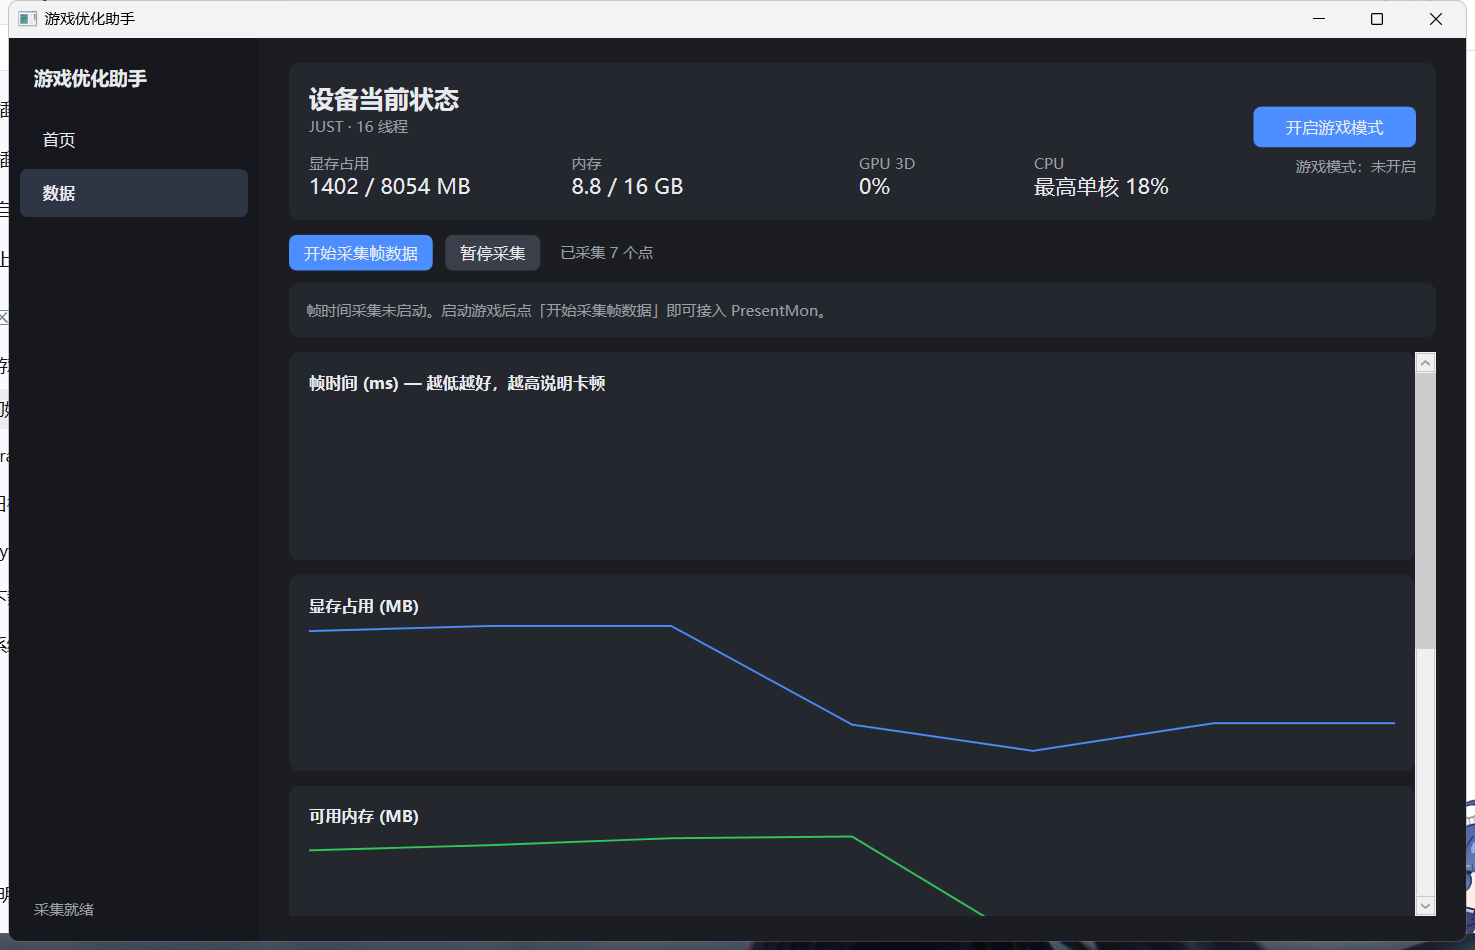
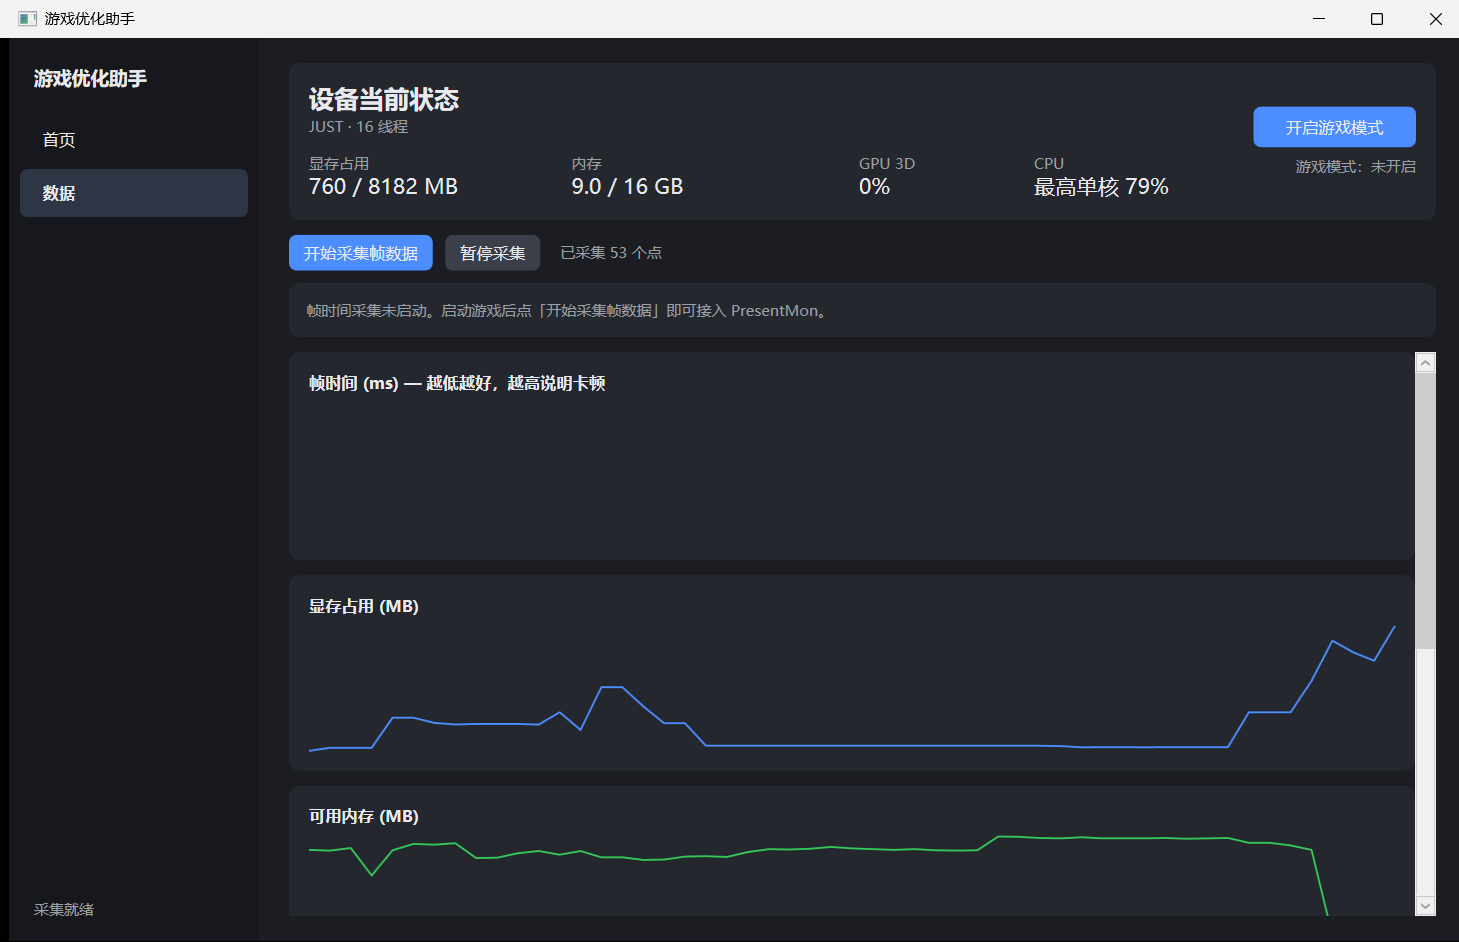
docs: v0.5.1 版本收尾 - 版本号、文档同步、工作区整理
- 版本号升到 0.5.1（Directory.Build.props 与 VersionConsistencyTests 同步）
- 变更记录：把两个「未发布」节合并为 v0.5.1 正式条目，修正批量替换
  误改的历史内容（v0.5.0 一节恢复原样）
- 功能清单：数据页四条曲线标为 ⚠（缺刻度，看不出绝对水位），
  新增「诊断结论展示 ❌」；游戏模式段落重写
- 已知限制：新增第九节「数据页曲线缺量程与结论」，
  重写第十节那个删不掉的空目录（补实测报错与处置建议）
- 开发指南：补目录速查、运行时数据位置、约定 0「破坏性操作默认关闭」
- 更新首页与数据页配图
- 清理：删除临时验证工程与 27 张调试截图，dotnet clean 清掉 bin/obj

diff --git a/tests/GameOptimizer.Tests/VersionConsistencyTests.cs b/tests/GameOptimizer.Tests/VersionConsistencyTests.cs
@@ -42,11 +42,12 @@ public class VersionConsistencyTests
     }
 
     [Fact]
-    public void 当前版本应为0_5_0()
+    public void 当前版本应为0_5_1()
     {
         // 版本号由用户手动设定；升级时改这里和 Directory.Build.props
         AssemblyVersion.Major.Should().Be(0);
         AssemblyVersion.Minor.Should().Be(5);
+        AssemblyVersion.Build.Should().Be(1);
     }
 
     [Fact]

diff --git a/docs/06-变更记录.md b/docs/06-变更记录.md
@@ -4,60 +4,20 @@
 
 ---
 
-## 未发布 — 游戏模式调强：结束后台
+## v0.5.1 — 显存判定修正 + 游戏模式调强（2026-10-19）
 
-### 用户能看到什么
+本次修复两个实际问题：首页显存判定不看游戏需求、游戏模式结束后台形同虚设。
 
-- 首页多了一块「开启游戏模式时结束后台」，列出**当前正在运行**的可结束应用
-- 每项显示**中文应用名 + 进程名**（「壁纸引擎 Wallpaper Engine / wallpaper64」）
-- 可逐项勾选、全选、全不选，勾选状态自动保存
-- **不必要的自动不显示**：系统服务、Windows 组件、安全软件既不出现在列表里，也不会被结束
-- 开启后明确报告「已结束 3 个进程，释放约 246 MB」
+### 一、首页显存判定
 
-### 修了什么 bug，根因是什么
-
-**现象**：点「开启游戏模式」后，界面上「已开启」，但实际什么都没发生。
-
-**根因有三个**：
-
-1. **白名单完全打不中**：旧名单只有 18 项浏览器/通讯软件，
-   本机实测一个都没在跑。真正抢资源的是壁纸引擎（74MB）、华为电脑管家（32MB）、
-   任务栏美化 TranslucentTB（140MB），一个都不在名单里。
-2. **显卡偏好是空转**：`GpuPreferenceAction.TargetApp` 从未被赋值，
-   `Apply()` 直接 return。而且本机是核显，写这个键本来也不会生效。
-3. **结束失败被静默吞掉**：`catch { }` 吞掉所有异常，
-   服务进程拒绝结束也不会体现在结果里。
-
-**修法**：
-
-- 白名单扩充并按实测补齐；支持用户自定义并持久化
-- 移除显卡偏好与 Game DVR 动作，游戏模式只做「关闭后台」这一件事
-- `EssentialProcessGuard`：按 Session 0 / 注册服务 / 系统目录判定必要进程，
-  自动跳过且不展示，不再依赖猜名单
-- `Kill` 之后回读 `HasExited` 确认，失败如实归入「拒绝访问」
-
-### 实机验证
-
-`平衡/高性能 → 开启 → 退出` 完整往返，电源计划确认还原；
-实测结束 3 个进程释放 246MB，服务类进程被正确跳过。
-
-### 测试
-
-272 个用例（新增 `GameModeStrengthTests`、`EssentialProcessGuardTests`、
-`BackgroundWhitelistStoreTests`、`ProcessDisplayNamesTests`）。
-
----
-
-## 未发布 — 修复首页显存判定
-
-### 用户能看到什么
+#### 用户能看到什么
 
 - 首页每款游戏按**自己的显存需求**给出结论，不再全体共用同一个占用率
 - 结论只有两种：**显存充足 / 显存紧张**，一眼能看懂
 - 顶部显示本机的实际显存容量与来源（实测 / 估算）
 - 悬停结论文本可看到「这款游戏约需多少 / 本机多少 / 占用百分比」
 
-### 修了什么 bug，根因是什么
+#### 修了什么 bug，根因是什么
 
 **现象**：首页所有游戏显示同一个结论，跟游戏本身没关系。
 8GB 显卡上「无畏契约」和「三角洲行动」会同时「显存充足」或同时「不足」。
@@ -77,9 +37,56 @@
   独显取专用显存，核显取专用 + 共享；读不到才退回估算并标记「未实测」
 - 排除软件适配器（`Microsoft Basic Render Driver`），否则虚拟机里会读到 0MB
 
+### 二、游戏模式调强：只结束正在运行的非必要后台应用
+
+#### 用户能看到什么
+
+- 首页多了一块「开启游戏模式时结束后台」，列出**当前正在运行**的可结束应用
+- 每项显示**中文应用名 + 进程名**（「壁纸引擎 Wallpaper Engine / wallpaper64」）
+- 可逐项勾选、全选、全不选，勾选状态自动保存
+- **默认全部不勾选**：开启游戏模式不会关掉你没选过的程序
+- **不必要的自动不显示**：系统服务、Windows 组件、安全软件既不出现在列表里，也不会被结束
+- 开启后明确报告「已结束 3 个进程，释放约 246 MB」
+
+#### 修了什么 bug，根因是什么
+
+**现象**：点「开启游戏模式」后，界面上「已开启」，但实际什么都没发生。
+
+**根因有四个**：
+
+1. **白名单完全打不中**：旧名单只有 18 项浏览器/通讯软件，
+   本机实测一个都没在跑。真正抢资源的是壁纸引擎（74MB）、华为电脑管家（32MB）、
+   任务栏美化 TranslucentTB（140MB），一个都不在名单里。
+2. **显卡偏好是空转**：`GpuPreferenceAction.TargetApp` 从未被赋值，
+   `Apply()` 直接 return。而且本机是核显，写这个键本来也不会生效。
+3. **结束失败被静默吞掉**：`catch { }` 吞掉所有异常，
+   服务进程拒绝结束也不会体现在结果里。
+4. **默认全选导致误关**：白名单默认全部勾选，
+   用户一点「开启游戏模式」就关掉了他正在用的软件——这是收尾阶段实测暴露的。
+
+**修法**：
+
+- 白名单扩充并按实测补齐；支持用户自定义并持久化到
+  `%LocalAppData%\GameOptimizer\background-whitelist.json`
+- 默认不勾选：勾选意味着「会被强制关闭」，属于破坏性操作，必须由用户主动选择
+- 移除显卡偏好与 Game DVR 动作，游戏模式只做「关闭后台」这一件事
+- `EssentialProcessGuard`：按 Session 0 / 注册服务 / 系统目录判定必要进程，
+  自动跳过且不展示，不再依赖猜名单
+- `Kill` 之后回读 `HasExited` 确认，失败如实归入「拒绝访问」
+- 白名单只列当前正在运行的项，显示中文应用名 + 进程名
+
+#### 实机验证
+
+`平衡/高性能 → 开启 → 退出` 完整往返，电源计划确认还原；
+实测结束 3 个进程释放 246MB，服务类进程被正确跳过。
+
 ### 测试
 
-215 个用例（新增 `GameVramAssessorTests`、`GameVramDemandTests`）。
+**272 个用例**（v0.5.0 为 184），新增：
+
+- `GameVramAssessorTests`、`GameVramDemandTests`
+- `GameModeStrengthTests`、`EssentialProcessGuardTests`
+- `BackgroundWhitelistStoreTests`、`ProcessDisplayNamesTests`
 
 ---
 

diff --git a/docs/04-已知限制.md b/docs/04-已知限制.md
@@ -1,4 +1,4 @@
-# 已知限制（v0.5.0）
+# 已知限制（v0.5.1）
 
 这一节记录**明确做不到的事**。写出来是为了避免下一版误判现状，也避免把限制当成 bug 去修。
 
@@ -56,7 +56,7 @@ The process cannot access the file because it is being used by another process.
 
 ## 六、网络问题完全没覆盖
 
-用户最初描述的「网络波动大」不在 v0.5.0 范围内。当前的所有指标都是本机性能，**无法区分「渲染卡」和「网络卡」**。
+用户最初描述的「网络波动大」不在 v0.5.1 范围内。当前的所有指标都是本机性能，**无法区分「渲染卡」和「网络卡」**。
 
 诊断引擎里「帧时间平稳」的结论会提示「若仍有卡顿感，更可能来自网络或输入延迟」，但这只是提示，没有数据支撑。
 
@@ -73,6 +73,29 @@ The process cannot access the file because it is being used by another process.
 - 曲线只保留最近 120 点（约 2 分钟），更长的会话会被截断
 - 没有历史数据持久化，关掉程序数据就没了
 
-## 九、工作区里一个删不掉的空目录
+## 九、数据页曲线缺量程与结论
 
-`src/GameOptimizer.App/bin/` 下有个空目录被残留进程占用，无法删除。它已在 `.gitignore` 中，**不影响仓库和交付**，下次 `dotnet clean` 或重启后自然消失。
+三个具体问题（v0.5.1 已记录，v1.0.0 前应修）：
+
+1. **曲线无刻度**：`ChartGeometry.Build()` 把每条序列各自归一化到 0~1，
+   没有坐标轴、刻度与数值。显存稳定在 8000MB（将满）与稳定在 1500MB，
+   画出来的线一模一样——看不出「快满了」这件事。
+2. **诊断结论未展示**：`DiagnosisEngine` 的结论只在 `Shutdown()` 里计算，
+   而那时窗口已关闭；`MainWindow.xaml` 也没有绑定 `Findings`。
+   归因引擎写好了，但用户从没看到过输出。
+3. **帧时间曲线常年为空**：依赖 PresentMon 的 ETW 权限，普通权限拿不到数据。
+
+**改进方向**：固定量程（显存按本机预算、占用率按 0~100%）+ 实时显示结论；
+或把五条曲线压缩成「当前值 + 最近 2 分钟峰值 + 一条结论」的文字摘要。
+
+## 十、工作区里一个删不掉的空目录
+
+`src/GameOptimizer.App/bin/Debug/net8.0-windows/` 是一个**空目录**，
+但被残留的进程句柄占用，`Remove-Item -Recurse` 与 `cmd /c rmdir /s /q` 都返回
+`The process cannot access the file because it is being used by another process`。
+
+- 它已在 `.gitignore` 中，**不影响仓库、构建与交付**
+- `dotnet build` 会正常复用，不会报错
+- 注销或重启后自然消失
+
+**不要**为了删它去结束系统进程——不值得，也不安全。

diff --git a/docs/05-开发指南.md b/docs/05-开发指南.md
@@ -28,15 +28,50 @@ dotnet clean
 
 ```
 src/GameOptimizer.Core/Collection/   采集层，碰 Windows API 的地方都在这
+  PdhSampler           WDDM 性能计数器
+  GpuMemoryInfo        DXGI 读显存容量
+  SystemMemoryInfo     物理内存总量
+  FrameTimeSource      PresentMon 帧时间
+  GameProcessDetector  找正在运行的游戏
 src/GameOptimizer.Core/Analysis/     判定逻辑，纯函数优先，必须可单测
-src/GameOptimizer.Core/Library/      游戏库扫描
+  GameVramDemand       游戏显存需求表
+  GameVramAssessor     按游戏判「充足 / 紧张」
+  VramAssessor         会话实测双指标
+  DiagnosisEngine      卡顿归因
+  FrameTimeAnalyzer    帧时间统计
+  ChartGeometry        曲线坐标（纯函数）
+src/GameOptimizer.Core/Library/      游戏库扫描 + 游戏模式名单
+  SteamLibraryScanner / WeGameLibraryScanner / NonGameFilter
+  BackgroundProcessWhitelist   可结束进程预设
+  EssentialProcessGuard        必要进程自动识别
+  BackgroundWhitelistStore     勾选状态持久化
+  ProcessDisplayNames          进程名 → 中文应用名
 src/GameOptimizer.Core/GameMode/     会改系统的操作，每个都必须能回滚
 src/GameOptimizer.App/ViewModels/    界面状态，逻辑尽量下沉到 Core
+src/GameOptimizer.App/Views/         MainWindow、Sparkline（自绘折线）
 tests/GameOptimizer.Tests/           一个类一个文件，命名对齐被测类
 tools/                               运维脚本，必须带 UTF-8 BOM
+docs/images/                         文档配图
 ```
 
+## 运行时数据位置
+
+| 内容 | 路径 |
+|---|---|
+| 界面勾选的后台白名单 | `%LocalAppData%\GameOptimizer\background-whitelist.json` |
+| PresentMon 采到的 CSV | `%LocalAppData%\GameOptimizer\captures\` |
+
+两者都在仓库之外，属于用户数据，`.gitignore` 不覆盖它们。
+
 ## 开发约定
+
+### 0. 破坏性操作默认关闭
+
+游戏模式结束后台属于**不可逆操作**（进程不会自动重启）。
+白名单默认全不勾选，必须由用户主动选择；必要进程按客观特征自动排除。
+
+这条来自实测教训：v0.5.1 收尾阶段曾因默认全选，
+用户一点「开启游戏模式」就关掉了他正在用的壁纸引擎与任务栏美化。
 
 ### 1. 会改系统的操作必须能回滚
 

diff --git a/docs/README.md b/docs/README.md
@@ -1,6 +1,6 @@
 # 游戏优化助手 · 项目文档
 
-> 当前版本：**v0.5.0**
+> 当前版本：**v0.5.1**
 > 文档更新：2026-10-19
 
 ## 这是什么
@@ -16,8 +16,20 @@
 | [03-版本规则](03-版本规则.md) | 版本号约定与发布流程 |
 | [04-已知限制](04-已知限制.md) | 明确的能力边界，避免误判 |
 | [05-开发指南](05-开发指南.md) | 构建、测试、调试、常见坑 |
-| [06-变更记录](06-变更记录.md) | 从 v0.1 到 v0.5.0 的完整演进 |
+| [06-变更记录](06-变更记录.md) | 从早期迭代到 v0.5.1 的完整演进 |
 
 ## 一句话现状
 
-**v0.5.0 是一个「能看、能测、能改、能回滚」的可用版本**，但帧时间采集受 Windows ETW 权限限制，需要管理员身份或加入 `Performance Log Users` 组才能拿到数据。显存、内存、GPU、CPU 的采集与判定完全可用，且不需要任何特权。
+**v0.5.1 是一个「能看、能测、能改、能回滚」的可用版本**：
+
+- 首页每款游戏按自己的显存需求判「充足 / 紧张」，本机显存容量走 DXGI 实测
+- 游戏模式只结束你勾选过的后台应用，系统必要进程自动保护
+- 帧时间采集仍受 Windows ETW 权限限制，需要管理员身份或加入 `Performance Log Users` 组才能拿到数据
+
+## 待办（v1.0.0 之前）
+
+| 项 | 说明 |
+|---|---|
+| 数据页曲线缺量程 | 每条曲线按自身 min/max 缩放，没有刻度，看不出绝对水平 |
+| 诊断结论未展示 | `DiagnosisEngine` 的结论只在关窗口时计算，界面未绑定 |
+| 帧时间依赖 ETW 权限 | 普通权限下，五条曲线里最有价值的一条没有数据 |

diff --git a/docs/02-功能清单.md b/docs/02-功能清单.md
@@ -1,4 +1,4 @@
-# 功能清单（v0.5.0）
+# 功能清单（v0.5.1）
 
 图例：✅ 完全可用 ｜ ⚠ 有条件可用 ｜ ❌ 未实现
 
@@ -17,13 +17,14 @@
 | 功能 | 状态 | 说明 |
 |---|---|---|
 | 帧时间曲线 | ⚠ | **需要 ETW 权限**，见下文 |
-| 显存占用曲线 | ✅ | 最近 120 个采样点（约 2 分钟） |
-| 可用内存曲线 | ✅ | 同上 |
-| GPU 3D 利用率曲线 | ✅ | 同上，已钳制到 0–100 |
-| 最高单核占用曲线 | ✅ | 同上 |
+| 显存占用曲线 | ⚠ | 最近 120 个采样点（约 2 分钟）；**无刻度**，按自身 min/max 缩放，看不出绝对水位 |
+| 可用内存曲线 | ⚠ | 同上 |
+| GPU 3D 利用率曲线 | ⚠ | 同上，已钳制到 0–100 |
+| 最高单核占用曲线 | ⚠ | 同上 |
 | 开始/停止帧采集 | ✅ | 自动识别运行中的游戏，无需手填进程名 |
 | 采集失败如实上报 | ✅ | 不会在采集失败时显示「正在采集」 |
 | 暂停/恢复采样 | ✅ | 暂停后停止写入曲线，时钟同步暂停 |
+| 诊断结论展示 | ❌ | `DiagnosisEngine` 结论只在关窗口时计算，界面未绑定，见 `04-已知限制` 第九节 |
 
 ## 三、游戏模式
 

diff --git a/docs/03-版本规则.md b/docs/03-版本规则.md
@@ -4,7 +4,7 @@
 
 | 变更类型 | 版本变化 | 示例 |
 |---|---|---|
-| **外观 / 功能性更新** | 次版本号 +1，修订号归零 | v0.5.0 → **v1.0.0** |
+| **外观 / 功能性更新** | 次版本号 +1，修订号归零 | v0.5.1 → **v1.0.0** |
 | **仅修 bug** | 修订号 +1 | v0.5.0 → **v0.5.1** → v0.5.2 … |
 | 大版本（如 v1.x）内的外观更新 | 同上规则 | v1.0.0 → **v2.0.0** |
 
@@ -19,9 +19,9 @@ Directory.Build.props   ← 顶部的 <Version>
 ```
 
 ```xml
-<Version>0.5.0</Version>
-<AssemblyVersion>0.5.0.0</AssemblyVersion>
-<FileVersion>0.5.0.0</FileVersion>
+<Version>0.5.1</Version>
+<AssemblyVersion>0.5.1.0</AssemblyVersion>
+<FileVersion>0.5.1.0</FileVersion>
 ```
 
 改完后重新构建，exe 的属性里就是新版本号。
@@ -46,7 +46,7 @@ refactor: 简短说明 ← 重构
 6. **打标签**：
 
 ```powershell
-git tag -a v0.5.0 -m "v0.5.0"
+git tag -a v0.5.1 -m "v0.5.1"
 ```
 
 ## 变更记录怎么写
@@ -59,4 +59,4 @@ git tag -a v0.5.0 -m "v0.5.0"
 
 ## 当前版本
 
-**v0.5.0** —— 首个可用的完整版本。
+**v0.5.1** —— 修复版，见变更记录。

diff --git a/README.md b/README.md
@@ -1,6 +1,6 @@
 # 游戏优化助手
 
-> 当前版本 **v0.5.0** ｜ Windows 10/11 ｜ [完整文档](docs/README.md)
+> 当前版本 **v0.5.1** ｜ Windows 10/11 ｜ [完整文档](docs/README.md)
 
 面向「显存不足 / 卡顿掉帧」的 Windows 桌面诊断工具。不做「一键提速」的承诺，而是把**显存水位 + 帧时间 + 硬件占用**放进同一条时间轴，告诉你卡顿到底来自哪里。
 
@@ -20,8 +20,8 @@
 | 实时监控显存 / 内存 / GPU / 逐核 CPU | ✅ 无需任何特权 |
 | 自动扫描 Steam 与 WeGame 游戏库 | ✅ 剔除壁纸等非游戏 |
 | 按游戏判断显存是否充足 | ✅ 按每款游戏的正常需求对比本机实测显存 |
+| 游戏模式（电源 / 结束后台） | ✅ 全部可回滚；必要进程自动保护 |
 | 帧时间采集与卡顿归因 | ⚠ 需要 ETW 权限，见下 |
-| 游戏模式（电源 / 显卡 / 后台进程） | ✅ 全部可回滚 |
 
 ## 快速开始
 
